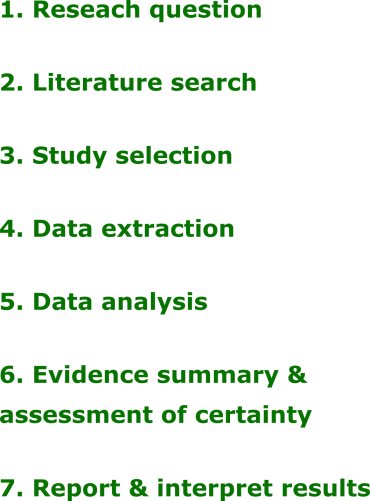
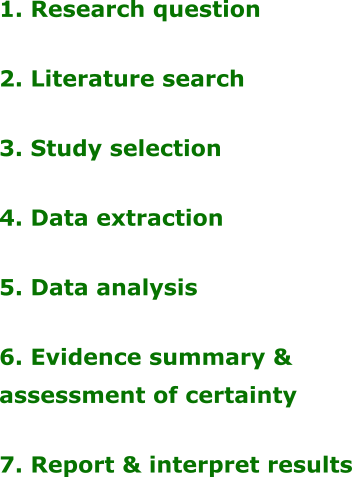
corrected 2-4

diff --git a/chapters/chapter2.md b/chapters/chapter2.md
@@ -176,7 +176,6 @@ Outcome type: should we accept any reproduction-related measurements and what th
 **QUESTION 11:**  
 Data type: should we accept any type of data for meta-analysis? (e.g. descriptive statistics, and which ones, or also inferential statistics, and which ones? This will be linked to the effect size you are planning to use!)    
 
-<br>
 
 ********************************************************************************
 ### Making decision trees for the literature screening    
@@ -441,11 +440,9 @@ text(elpos[29, 1] + 0.02, elpos[29, 2] + 0.06, "35")
 
 <exercise id="4" title="Extraction of effect sizes">
 
-# Extraction of effect sizes
-
 Based on material prepared by Malgorzata (Losia) Lagisz, BEES, UNSW, Australia, losialagisz@gmail.com.   
 
-## Introduction   
+## Introduction for extracting effect sizes
 
 Imagine, you quickly got well and decided to carry on the Terminal Investment Meta-analysis Project.   
 After a few weeks you finished searching and screening literature for the relevant papers. You now have a collection of around 30 included full-text papers (relatively manageable; some projects have 300 or more), stored neatly as pdf files and supplementary information, in whatever format available. It is time to start extracting the data (ideally, you should have planned this in detail while writing up your protocol/preregistration, but in this exercise we assume you did not).   
@@ -590,8 +587,8 @@ library(compute.es)
 ```
 
 Let's try to extract data from two selected papers::   
- 1. Figure 2a in the paper by Weil et al. 2006: Immune challenge retards seasonal reproductive regression in rodents: evidence for terminal investment (**[Weil2006.pdf](https://github.com/SusZaj/metaanalysis/blob/master/papers/Weil2006.pdf){:target="_blank"}**)
- 2. Figure 2a in the paper by Sadd et al. 2006: Modulation of sexual signalling by immune challenged male mealworm beetles (*Tenebrio molitor*, L.): evidence for terminal investment and dishonesty (**[Sadd2006.pdf](https://github.com/SusZaj/metaanalysis/blob/master/Sadd2006.pdf){:target="_blank"}**)   
+ 1. Figure 2a in the paper by Weil et al. 2006: Immune challenge retards seasonal reproductive regression in rodents: evidence for terminal investment (**[Weil2006.pdf](https://github.com/SusZaj/metaanalysis/blob/master/papers/Weil2006.pdf)**)
+ 2. Figure 2a in the paper by Sadd et al. 2006: Modulation of sexual signalling by immune challenged male mealworm beetles (*Tenebrio molitor*, L.): evidence for terminal investment and dishonesty (**[Sadd2006.pdf](https://github.com/SusZaj/metaanalysis/blob/master/Sadd2006.pdf)**)   
 
 You will need to open the pdf files and take the snapshots of the relevant figures (for Mac OS the keyboard shortcut is easiest: press Command+Shift+4 and then select the screen fragment; for Windows see https://www.windowscentral.com/how-take-windows-10-screenshot-7-best-techniques). Make sure you capture the axes and axes labels. Also, enlarge these figures to fill the screen before taking the snapshot to get a higher resolution image.   
 
